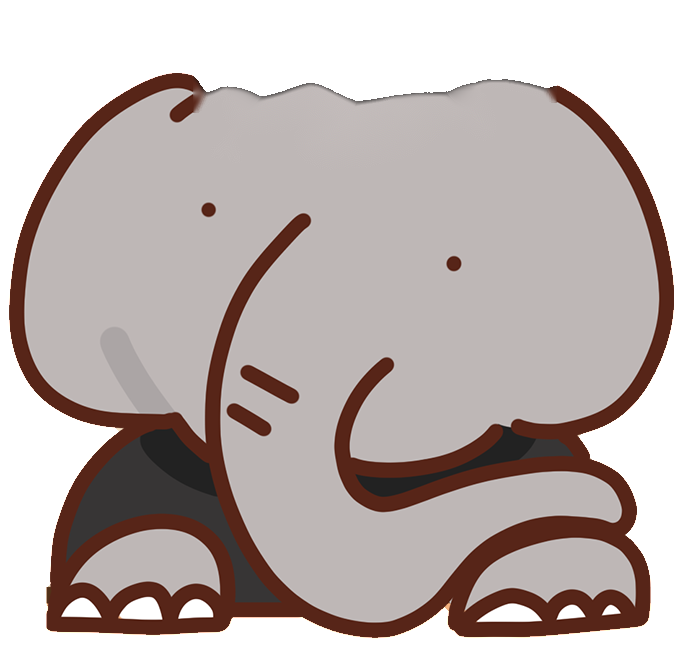
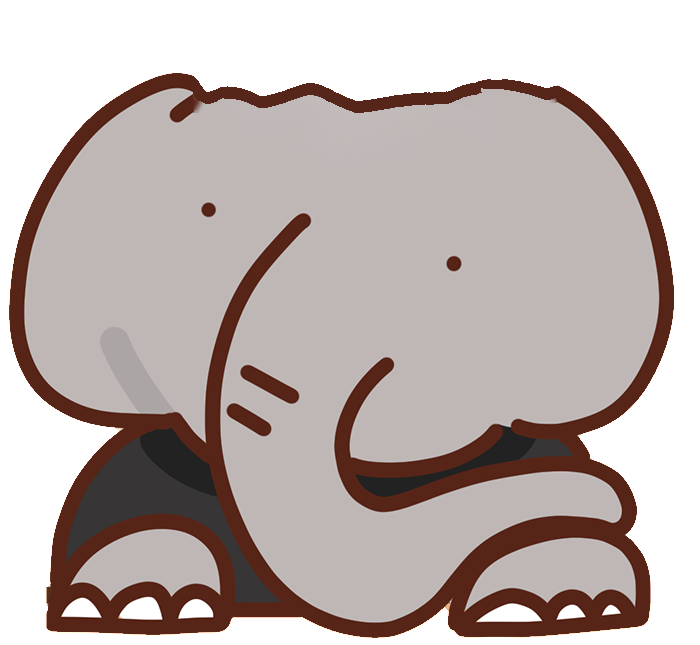
Add [Site] 팀 무대 선택 연출 — 아은 폭풍 타자 · 고라니 비명 · 코끼리 비눗방울
- Dune: 눈이 노랗게 빛나고 키보드 앞에서 앞발 폭풍 타자(dune-body + 앞발 조각), "마감 직전…!!"
- Kora: 엉덩이 축으로 고개를 쳐들고 부들부들 + "끄아아아아악!!" 글자
- Kiriko: "빌드중…" + 코끝에서 비눗방울
- kiriko-stage.png 고라니 자리 머리 윗선 다시 그음
- 동작 줄이기 설정이면 연출 애니메이션 끔

Changed region(s): [[0.27, 0.124, 0.81, 0.186]]

diff --git a/assets/css/home.css b/assets/css/home.css
@@ -73,6 +73,54 @@ html:not(.js) .mani { color: var(--text); }
 .scene.sel-kiriko .actor[data-who="kora"] { filter: none; z-index: 5; }
 .actor.sel img:not(.ol) { filter: drop-shadow(0 14px 18px rgba(13, 8, 22, .45)); }
 
+/* 선택 연출(acting) — 아은: 눈 빛나며 폭풍 타자 / 지혜: 고개 쳐들고 비명 / 용섭: 빌드 중 비눗방울 */
+.actor .act { position: absolute; inset: 0; display: none; pointer-events: none; }
+.actor.acting .act { display: block; }
+.actor .act img.p { position: absolute; animation: none; transform-origin: 50% 100%; }
+/* 아은 */
+.actor[data-who="dune"].acting > img { visibility: hidden; }
+.actor[data-who="dune"] .act { animation: jit .09s steps(2) infinite; }
+@keyframes jit { 50% { transform: translate(.6%, -.4%); } }
+.actor[data-who="dune"] .act img.body { inset: 0; width: 100%; height: 100%; filter: brightness(.45); }
+.actor[data-who="dune"] .act img.paw { left: 0; top: 81.282%; width: 28.793%; height: 17.692%; filter: brightness(.6); animation: type .14s ease-in-out infinite alternate; }
+.actor[data-who="dune"] .act img.paw.r { left: 66.873%; top: 82.051%; width: 30.341%; height: 17.436%; animation-delay: -.07s; }
+@keyframes type { from { transform: translateY(0); } to { transform: translateY(-26%) rotate(-3deg); } }
+.actor[data-who="dune"] .eye { position: absolute; left: 28.8%; top: 24.4%; width: 12%; aspect-ratio: 1.15; translate: -50% -50%; border-radius: 50%;
+  background: radial-gradient(circle, #fffbe0 0 22%, #ffe14a 38%, rgba(255, 200, 40, .55) 55%, rgba(255, 200, 40, 0) 72%); animation: glare .5s ease-in-out infinite alternate; }
+.actor[data-who="dune"] .eye.r { left: 65.3%; top: 23.6%; }
+@keyframes glare { from { transform: scale(.85); filter: brightness(1); } to { transform: scale(1.12); filter: brightness(1.35); } }
+.actor[data-who="dune"] .kb { position: absolute; left: -6%; right: -6%; bottom: -1%; height: 11%; border: 3px solid #5a2a1a; border-radius: 6px;
+  background: repeating-linear-gradient(90deg, transparent 0 7%, rgba(0, 0, 0, .45) 7% 8%), repeating-linear-gradient(0deg, transparent 0 30%, rgba(0, 0, 0, .45) 30% 36%), linear-gradient(#e9e3da, #b8aea3);
+  box-shadow: 0 6px 0 #3a1d12; animation: kb .14s steps(2) infinite; }
+@keyframes kb { 50% { transform: translateY(2%); } }
+.actor[data-who="dune"] .tk i { position: absolute; bottom: 10%; font-style: normal; font-family: var(--kr-display, var(--display)); font-weight: 900; font-size: clamp(12px, 1.7vw, 24px); color: #fff; white-space: nowrap;
+  -webkit-text-stroke: 4px #5a2a1a; paint-order: stroke fill; text-shadow: 0 3px 0 #5a2a1a; opacity: 0; animation: tk .7s ease-out infinite; }
+.actor[data-who="dune"] .tk i:nth-child(1) { left: -12%; }
+.actor[data-who="dune"] .tk i:nth-child(2) { left: 78%; animation-delay: .18s; }
+.actor[data-who="dune"] .tk i:nth-child(3) { left: 8%; animation-delay: .36s; }
+.actor[data-who="dune"] .tk i:nth-child(4) { left: 62%; animation-delay: .52s; }
+@keyframes tk { 0% { opacity: 0; transform: translateY(0) scale(.6); } 20% { opacity: 1; transform: translateY(-40%) scale(1.1); } 100% { opacity: 0; transform: translateY(-260%) scale(1); } }
+/* 지혜(고라니) — 엉덩이를 축으로 고개를 쳐들고 부들부들 */
+.actor[data-who="kora"].acting > img { transform-origin: 83% 88%; animation: rear 2.6s cubic-bezier(.3, 1.3, .5, 1) both; }
+@keyframes rear { 0% { transform: rotate(0); } 12% { transform: rotate(30deg) scale(1.06); }
+  18% { transform: rotate(25deg) scale(1.06); } 24% { transform: rotate(29deg) scale(1.06); } 30% { transform: rotate(24deg) scale(1.06); } 36% { transform: rotate(29deg) scale(1.06); }
+  42% { transform: rotate(25deg) scale(1.06); } 48% { transform: rotate(29deg) scale(1.06); } 54% { transform: rotate(24deg) scale(1.06); } 60% { transform: rotate(29deg) scale(1.06); }
+  66% { transform: rotate(25deg) scale(1.06); } 72% { transform: rotate(28deg) scale(1.06); } 86% { transform: rotate(4deg); } 100% { transform: rotate(0); } }
+.actor[data-who="kora"] .scream { inset: auto; left: -18%; top: -95%; font-family: var(--kr-display, var(--display)); font-weight: 900; font-size: clamp(18px, 3.4vw, 50px); color: #fff; white-space: nowrap; letter-spacing: -.02em;
+  -webkit-text-stroke: 6px #5a2a1a; paint-order: stroke fill; text-shadow: 0 5px 0 #5a2a1a; rotate: -12deg; animation: scream 2.6s ease-out both; }
+@keyframes scream { 0%, 8% { opacity: 0; transform: scale(.3); } 14% { opacity: 1; transform: scale(1.25); }
+  20% { transform: scale(1) translate(2%, -3%); } 26% { transform: scale(1.05) translate(-2%, 2%); } 32% { transform: scale(1) translate(2%, 2%); } 38% { transform: scale(1.05) translate(-2%, -2%); }
+  44% { transform: scale(1) translate(2%, -2%); } 50% { transform: scale(1.05) translate(-2%, 2%); } 56% { transform: scale(1) translate(2%, 2%); } 62% { transform: scale(1.05) translate(-2%, -3%); }
+  72% { opacity: 1; transform: scale(1); } 86%, 100% { opacity: 0; transform: scale(1.1) translateY(-20%); } }
+/* 용섭(코끼리) — 코끝에서 비눗방울 */
+.actor[data-who="kiriko"] .soap i { position: absolute; left: 55%; top: 56%; width: var(--s); aspect-ratio: 1; border-radius: 50%; opacity: 0; border: 2px solid rgba(255, 255, 255, .9); box-shadow: inset 0 0 0 3px rgba(150, 210, 255, .35), inset -4px -6px 10px rgba(255, 140, 220, .45), 0 0 8px rgba(255, 255, 255, .5);
+  background: radial-gradient(circle at 32% 28%, rgba(255, 255, 255, .95) 0 9%, rgba(255, 255, 255, 0) 12%),
+    radial-gradient(circle, rgba(255, 255, 255, 0) 52%, rgba(160, 220, 255, .45) 68%, rgba(255, 160, 230, .55) 84%, rgba(255, 255, 255, .9) 100%);
+  animation: soap 1.9s ease-out var(--dl) infinite; }
+@keyframes soap { 0% { left: 55%; top: 56%; opacity: 0; transform: translate(-50%, -50%) scale(.2); } 12% { opacity: 1; }
+  80% { left: var(--tx); top: var(--ty); opacity: 1; transform: translate(-50%, -50%) scale(1); }
+  88% { left: var(--tx); top: var(--ty); opacity: 0; transform: translate(-50%, -50%) scale(1.5); } 100% { left: var(--tx); top: var(--ty); opacity: 0; } }
+
 .plate { z-index: 5; border-radius: 10px; transition: box-shadow .3s, background .3s; }
 .plate:hover, .plate:focus-visible { box-shadow: 0 0 0 3px rgba(255, 200, 61, .9); }
 .plate.sel { box-shadow: 0 0 0 3px var(--butter), 0 0 24px rgba(255, 200, 61, .6); }
@@ -133,7 +181,7 @@ html:not(.js) .mani { color: var(--text); }
   .bubble { border-width: 2px; padding: 4px 9px; }
 }
 @media (prefers-reduced-motion: reduce) {
-  .actor, .actor img, .pf-art img, .zz i { animation: none !important; }
+  .actor, .actor img, .pf-art img, .zz i, .act, .act * { animation: none !important; }
 }
 
 /* 4. 프로젝트 */

diff --git a/index.html b/index.html
@@ -82,10 +82,10 @@
     <div class="crew-wrap" data-reveal style="--d:.2s">
       <div class="scene" id="scene">
         <img class="scene-bg" src="assets/img/crew-scene/stage.jpg" width="1672" height="1326" alt="Pancake Tycoon 팀 — 왼쪽부터 Dune(검은 고양이), Kiriko(코끼리, 머리 위에 Kora 고라니), Capy(회색 고양이)" loading="lazy">
-        <button class="actor" data-who="kiriko" style="left:29.605%;top:31.674%;width:41.866%;height:48.643%" aria-label="Kiriko 소개 보기"><img src="assets/img/crew-scene/kiriko-stage.png" alt=""><img class="ol" src="assets/img/crew-scene/kiriko-stage-ol.png" alt=""></button>
-        <button class="actor" data-who="dune" style="left:8.074%;top:50.452%;width:19.318%;height:29.412%" aria-label="Dune 소개 보기"><img src="assets/img/crew-scene/dune.png" alt=""><img class="ol" src="assets/img/crew-scene/dune-ol.png" alt=""></button>
+        <button class="actor" data-who="kiriko" style="left:29.605%;top:31.674%;width:41.866%;height:48.643%" aria-label="Kiriko 소개 보기"><img src="assets/img/crew-scene/kiriko-stage.png" alt=""><img class="ol" src="assets/img/crew-scene/kiriko-stage-ol.png" alt=""><span class="act soap" aria-hidden="true"><i style="--tx:84%;--ty:30%;--s:14%;--dl:0s"></i><i style="--tx:104%;--ty:44%;--s:9%;--dl:0.3s"></i><i style="--tx:76%;--ty:12%;--s:11%;--dl:0.6s"></i><i style="--tx:112%;--ty:22%;--s:16%;--dl:0.9s"></i><i style="--tx:94%;--ty:4%;--s:8%;--dl:1.2s"></i><i style="--tx:70%;--ty:34%;--s:12%;--dl:1.5s"></i><i style="--tx:108%;--ty:8%;--s:10%;--dl:1.8s"></i><i style="--tx:88%;--ty:50%;--s:13%;--dl:2.1s"></i></span></button>
+        <button class="actor" data-who="dune" style="left:8.074%;top:50.452%;width:19.318%;height:29.412%" aria-label="Dune 소개 보기"><img src="assets/img/crew-scene/dune.png" alt=""><img class="ol" src="assets/img/crew-scene/dune-ol.png" alt=""><span class="act" aria-hidden="true"><img class="p body" src="assets/img/crew-scene/dune-body.png" alt=""><span class="eye"></span><span class="eye r"></span><img class="p paw" src="assets/img/crew-scene/dune-paw-l.png" alt=""><img class="p paw r" src="assets/img/crew-scene/dune-paw-r.png" alt=""><span class="kb"></span><span class="tk"><i>타닥</i><i>탁!</i><i>다다닥</i><i>탁탁</i></span></span></button>
         <button class="actor" data-who="capy" style="left:75.478%;top:51.131%;width:17.524%;height:28.054%" aria-label="Capy 소개 보기"><img src="assets/img/crew-scene/capy.png" alt=""><img class="ol" src="assets/img/crew-scene/capy-ol.png" alt=""></button>
-        <button class="actor" data-who="kora" style="left:41.268%;top:32.278%;width:21.531%;height:12.066%" aria-label="Kora 소개 보기"><img src="assets/img/crew-scene/kora.png" alt=""><img class="ol" src="assets/img/crew-scene/kora-ol.png" alt=""></button>
+        <button class="actor" data-who="kora" style="left:41.268%;top:32.278%;width:21.531%;height:12.066%" aria-label="Kora 소개 보기"><img src="assets/img/crew-scene/kora.png" alt=""><img class="ol" src="assets/img/crew-scene/kora-ol.png" alt=""><span class="act scream" aria-hidden="true">끄아아아아악!!</span></button>
         <span class="zz" aria-hidden="true"><i>z</i><i>z</i><i>Z</i></span>
         <button class="plate" data-who="dune" style="left:7.3%;top:89.37%;width:20.04%;height:8.82%" aria-label="Dune 이름표"></button>
         <button class="plate" data-who="kiriko" style="left:29.9%;top:89.37%;width:20.1%;height:8.82%" aria-label="Kiriko 이름표"></button>

diff --git a/assets/js/crew.js b/assets/js/crew.js
@@ -6,9 +6,9 @@
   if (!scene || !prof) return;
   const ORDER = ["dune", "kiriko", "kora", "capy"]; // 그림 속 이름표 순서
   const M = {
-    dune: { no: "01", name: "Dune", animal: "검은 고양이 · Black Cat", role: "Art", line: "캐릭터와 화면, 손에 닿는 모든 그림을 그립니다.", say: "이야기 굽는 중…", color: "#ff3b5c" },
-    kiriko: { no: "02", name: "Kiriko", animal: "코끼리 · Elephant", role: "Programmer", line: "방향을 잡고, 코드를 짜고, 스토어에 올립니다.", say: "빌드 올리는 중!", color: "#ffc83d", art: "kiriko-card" },
-    kora: { no: "03", name: "Kora", animal: "고라니 · Water Deer", role: "Animator", line: "원화를 그리고, Spine 으로 캐릭터에 숨을 불어넣습니다.", say: "zz… 앗, 일어났어요!", color: "#b9a8d6" },
+    dune: { no: "01", name: "Dune", animal: "검은 고양이 · Black Cat", role: "Art", line: "캐릭터와 화면, 손에 닿는 모든 그림을 그립니다.", say: "마감 직전…!!", color: "#ff3b5c" },
+    kiriko: { no: "02", name: "Kiriko", animal: "코끼리 · Elephant", role: "Programmer", line: "방향을 잡고, 코드를 짜고, 스토어에 올립니다.", say: "빌드중…", color: "#ffc83d", art: "kiriko-card" },
+    kora: { no: "03", name: "Kora", animal: "고라니 · Water Deer", role: "Animator", line: "원화를 그리고, Spine 으로 캐릭터에 숨을 불어넣습니다.", say: "", color: "#b9a8d6" },
     capy: { no: "04", name: "Capy", animal: "회색 고양이 · Gray Cat", role: "Programmer", line: "게임이 돌아가게 코드를 짭니다.", say: "버그 잡는 중!", color: "#5ce1c6" },
   };
   const actors = Object.fromEntries([...scene.querySelectorAll(".actor")].map((a) => [a.dataset.who, a]));
@@ -25,8 +25,17 @@
     clearTimeout(a._bt);
     a._bt = setTimeout(() => a.classList.remove("boing"), 950);
   }
+  // 선택 연출(acting) 길이 — CSS 애니메이션과 맞춘다. 여기 없는 캐릭터는 통통(boing)만
+  const ACT = { dune: 2600, kiriko: 3600, kora: 2600 };
+  function act(who) {
+    const a = actors[who];
+    a.classList.remove("acting"); void a.offsetWidth; a.classList.add("acting");
+    clearTimeout(a._at);
+    a._at = setTimeout(() => a.classList.remove("acting"), ACT[who]);
+  }
   function say(who) {
     const a = actors[who], m = M[who];
+    if (!m.say) { clearTimeout(bubbleT); bubble.classList.remove("on"); return; } // 고라니는 말풍선 대신 비명 글자
     bubble.textContent = m.say;
     const sr = scene.getBoundingClientRect(), ar = a.getBoundingClientRect();
     // 말풍선이 그림 밖으로 나가지 않게 가운데 위치를 좁혀 둔다
@@ -47,7 +56,8 @@
     prof.dataset.who = who;
     Object.entries(actors).forEach(([k, a]) => a.classList.toggle("sel", k === who));
     plates.forEach((p) => p.classList.toggle("sel", p.dataset.who === who));
-    boing(actors[who]);
+    if (ACT[who]) act(who);
+    if (who !== "dune" && who !== "kora") boing(actors[who]);
     say(who);
     if (who === "kora") {
       scene.classList.add("kora-awake");
